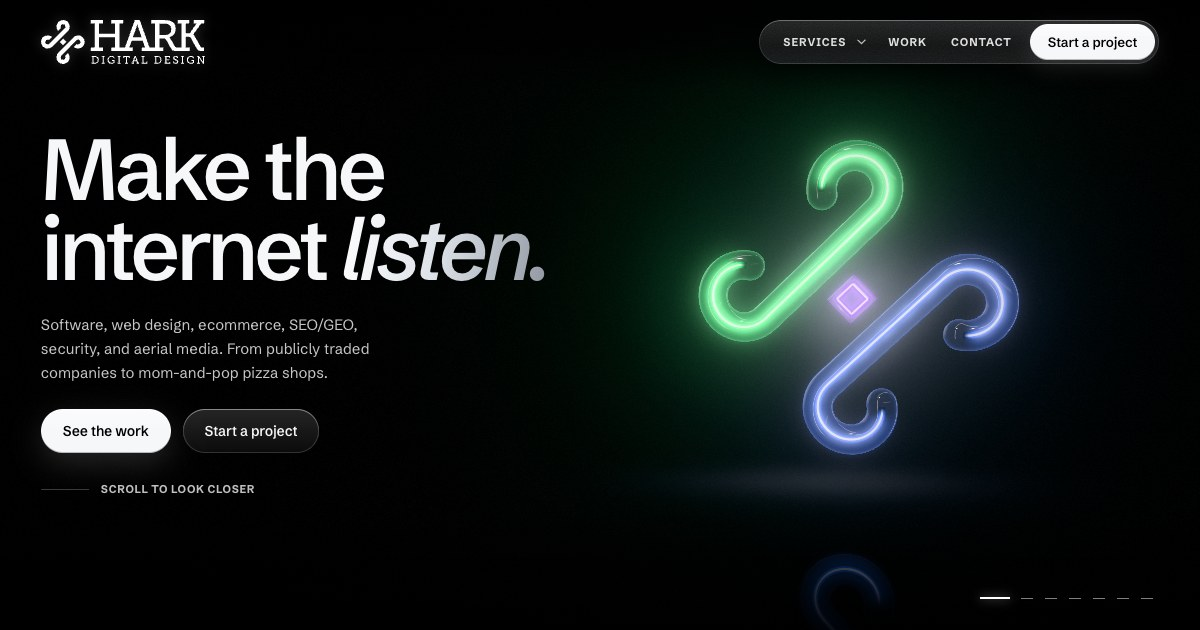
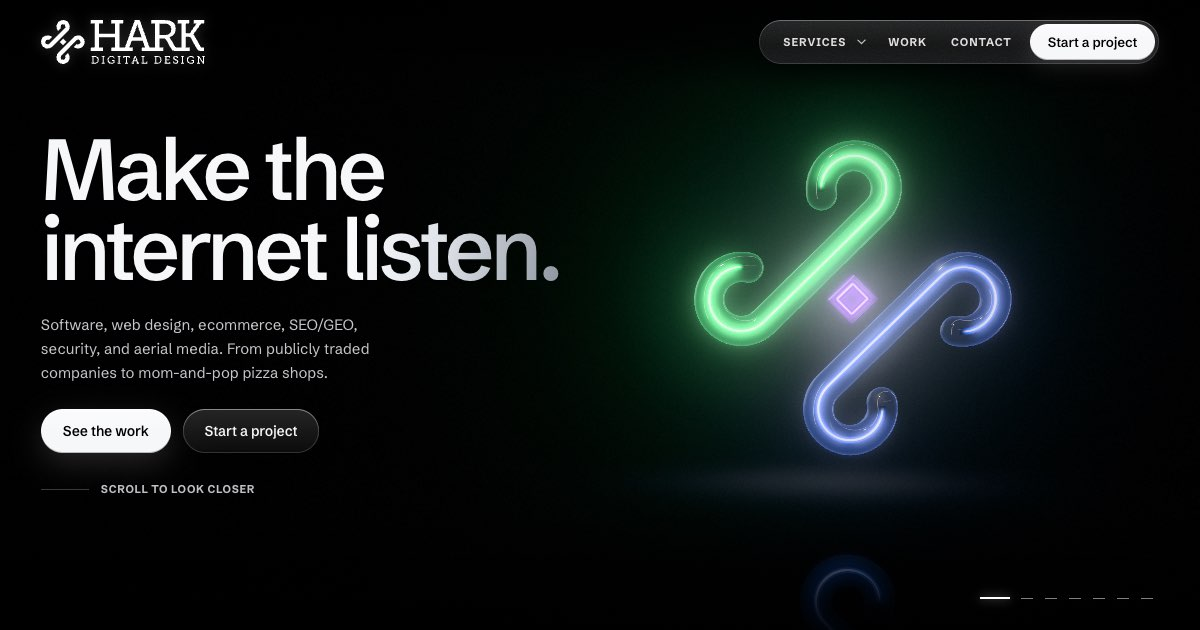
No italics anywhere; 'They talk. We Listen.' centred; tighter scroll; three.js cached
- Upright type only: the italic Schibsted face is no longer loaded (story,
  service pages, portfolio); every italic rule is normal, and base.css sets
  em/i/cite/dfn/var/address upright with font-synthesis-style: none. Accent
  words keep their gradient. Share image re-shot (it showed an italic 'listen.').
- Voices: 'They talk. We Listen.', larger and centred on the glass pane, sized
  from the card's own width (no container queries, so Safari 15 sets it the
  same); short landscape centres it between the meta row and the neon band.
- Scroll: Lenis lerp 0.2 / wheel 1 (was 0.09 / 0.85, which felt floaty);
  ?lerp= and ?wheel= audition other feels without a rebuild.
- Adaptive resolution never steps up mid-scroll (a step reallocates every
  render target, a hitch).
- three.js in its own chunk: the story's own JS is ~29 KB gzipped, and a
  deploy no longer makes returning visitors re-download three (~160 KB).

diff --git a/src/chapters/voices/voices.css b/src/chapters/voices/voices.css
@@ -30,6 +30,8 @@
   display: grid;
   grid-template-rows: auto minmax(0, 1fr) var(--vx-band, 30%);
   row-gap: clamp(12px, 2vh, 22px);
+  /* the card's text width: the intro title is sized off it (works without container queries) */
+  --vx-tw: calc(var(--vx-w) - var(--pad-l) - var(--pad-x));
 }
 
 /* ---------------- meta: eyebrow · count + ticks ---------------- */
@@ -113,16 +115,21 @@
 }
 
 .stage-voices .vx-title {
+  /* the intro line, large and centred on the whole pane: one sentence a line */
   position: absolute;
-  left: 0;
-  right: 0;
-  bottom: 0;
+  inset: 0;
   margin: 0;
-  font-size: clamp(2.6rem, 6.2vw, 6.4rem);
-  line-height: 0.94;
+  display: flex;
+  flex-direction: column;
+  align-items: center;
+  justify-content: center;
+  text-align: center;
+  pointer-events: none;
+  font-size: clamp(3rem, calc(var(--vx-tw) * 0.22), 10rem);
+  line-height: 0.96;
 }
 .stage-voices .vx-title > span {
-  display: inline;
+  display: block;
 }
 
 .stage-voices .vx-voices {
@@ -214,7 +221,7 @@
     --pad-l: clamp(28px, 8vw, 64px);
   }
   .stage-voices .vx-title {
-    font-size: clamp(2.3rem, 11vw, 5rem);
+    font-size: clamp(2.6rem, calc(var(--vx-tw) * 0.21), 7rem);
   }
   .stage-voices .vx-credit {
     font-size: 11px;
@@ -247,7 +254,11 @@
     --vx-floor: 12px;
     --vx-w: min(68vw, 720px);
   }
+  /* too short to centre on the whole pane: centre between the meta row and
+     the band, so the neon line never runs through the words */
   .stage-voices .vx-title {
-    font-size: clamp(1.9rem, 5.4vw, 2.8rem);
+    top: calc(var(--pad-t) + 32px);
+    bottom: var(--vx-band, 30%);
+    font-size: min(calc(var(--vx-tw) * 0.2), 14vh);
   }
 }

diff --git a/src/chapters/voices/index.ts b/src/chapters/voices/index.ts
@@ -20,8 +20,8 @@ import './voices.css'
  * speaker small beneath it; scrolling to the next voice morphs the tube into
  * the next speaker's print and shifts its colour (cyan → violet → magenta …).
  *
- *   0.00–0.12  intro: the line lies flat and dark: “We listen.” (0.012). It
- *              catches (0.036–0.056) and starts to talk: “They talk.” (0.044);
+ *   0.00–0.12  intro: the line lies flat and dark: “They talk.” (0.012). It
+ *              catches (0.036–0.056) and lights up: “We Listen.” (0.044);
  *              settled 0.06 (heading) and 0.08 (landing), clear of the cut
  *   0.12–0.93  eight voices (0.101 each): hold (the quote, the live line; a
  *              soft playhead reads along the voice as you scroll) → around
@@ -134,9 +134,10 @@ export default function create(): Chapter {
     ticks = TESTIMONIALS.map(() => el('i', '', undefined, tickRow))
 
     body = el('div', 'vx-body', undefined, card)
-    // “We listen.” first; “They talk.” once the line catches
+    // “They talk.” first; “We Listen.” (the lit accent) once the line catches.
+    // (on the card, not the body: it's centred on the whole pane)
     const m = SECTIONS.voices.title.match(/^(.*?\.)\s+(.*)$/)
-    title = el('h2', 'hud-h2 vx-title', undefined, body)
+    title = el('h2', 'hud-h2 vx-title', undefined, card)
     titleA = rise(el('span', 'vx-t1', undefined, title), m ? m[1] : SECTIONS.voices.title)
     title.appendChild(document.createTextNode(' '))
     titleB = rise(el('span', 'vx-t2', undefined, title), m ? `<em>${m[2]}</em>` : '')

diff --git a/src/styles/base.css b/src/styles/base.css
@@ -4,8 +4,9 @@
    Black, and frosted glass. Backgrounds are black (#000); light only exists
    where it makes frost glow. The page is frosted glass on black — panels
    with a soft sandblasted fill, a razor-thin bright top edge and a
-   light-catching rim; white type in Schibsted Grotesk, italic accents, and
-   bold tracked-caps labels in the same grotesk. Monochrome on purpose: the Hark brand is the
+   light-catching rim; white type in Schibsted Grotesk (upright only, never
+   italic: accent words are lit by a gradient instead), and bold
+   tracked-caps labels in the same grotesk. Monochrome on purpose: the Hark brand is the
    monochrome mark (no green). Headlines come INTO FOCUS (blur → sharp).
 
    STRUCTURE (keep): #gl / #track / #stages / .stage / #chrome / #loader,
@@ -15,6 +16,20 @@
    fallbacks — use rgba tokens); write -webkit-backdrop-filter BEFORE
    backdrop-filter; small text ≥ 4.5:1 on the real rendered background.
    ------------------------------------------------------------------ */
+
+/* no italics anywhere (Mike, 2026-09-30): not even the browser's own default
+   for em/i/cite, and no faux-italic if something asks for one */
+em,
+i,
+cite,
+dfn,
+var,
+address {
+  font-style: normal;
+}
+html {
+  font-synthesis-style: none;
+}
 
 :root {
   --bg: #000000;
@@ -291,7 +306,7 @@ a {
 /* <em> = the accent words, lit like light through tinted glass */
 .hud-title em,
 .hud-h2 em {
-  font-style: italic;
+  font-style: normal;
   color: var(--signal);
   background: var(--accent-grad);
   -webkit-background-clip: text;

diff --git a/src/core/Engine.ts b/src/core/Engine.ts
@@ -174,10 +174,17 @@ export class Engine {
       reducedMotion: this.reducedMotion,
     }
 
+    // ?lerp= / ?wheel= audition the scroll feel without a rebuild (see main.ts)
+    const q = new URLSearchParams(location.search)
+    const num = (k: string, lo: number, hi: number) => {
+      const v = parseFloat(q.get(k) ?? '')
+      return Number.isFinite(v) ? clamp(v, lo, hi) : undefined
+    }
     this.lenis = new Lenis({
       autoRaf: false,
-      lerp: this.reducedMotion ? 1 : 0.09,
-      wheelMultiplier: 0.85,
+      // tight: the story follows the wheel/trackpad closely (0.09 / 0.85 felt floaty)
+      lerp: this.reducedMotion ? 1 : (num('lerp', 0.02, 1) ?? 0.2),
+      wheelMultiplier: num('wheel', 0.2, 3) ?? 1,
       touchMultiplier: 1.4,
       smoothWheel: !this.reducedMotion,
     })
@@ -616,7 +623,13 @@ export class Engine {
       this.upWatch = 0
       this.perfCooldown = 6
       this.resize()
-    } else if (this.fastFor > 8 && this.dprScale < Math.min(1, this.dprCeil) && this.perfCooldown <= 0) {
+    } else if (
+      this.fastFor > 8 &&
+      this.dprScale < Math.min(1, this.dprCeil) &&
+      this.perfCooldown <= 0 &&
+      // a step up is optional and reallocates every render target: never mid-scroll
+      Math.abs(this.frame.velocity) < 0.05
+    ) {
       this.upFrom = this.dprScale
       this.dprScale = Math.min(1, this.dprCeil, this.dprScale + 0.1)
       this.fastFor = 0

diff --git a/src/main.ts b/src/main.ts
@@ -1,6 +1,5 @@
-// Fonts: Schibsted Grotesk for everything (display, body, italics, and bold labels).
+// Fonts: Schibsted Grotesk for everything (display, body and bold labels). Upright only: no italics anywhere.
 import '@fontsource-variable/schibsted-grotesk'
-import '@fontsource-variable/schibsted-grotesk/wght-italic.css'
 import './styles/base.css'
 import './ui/ui.css'
 
@@ -23,6 +22,7 @@ import { mountDebug } from './core/debug'
  *   ?p=0.42             jump to global progress
  *   ?only=work          init only that chapter (fast dev loop)
  *   ?debug              fps / chapter / progress readout
+ *   ?lerp=0.09&wheel=0.85  audition the smooth-scroll feel (lower lerp = floatier; default 0.2 / 1)
  */
 const params = new URLSearchParams(location.search)
 

diff --git a/src/portfolio/items.ts b/src/portfolio/items.ts
@@ -21,7 +21,7 @@ import { hostOf, isPreview, neonKey } from '../kit/work'
  *         .pf-foot > .pf-pool  the lit tube it stands on, and its light on the wall
  *       .pf-plac               industry (+ Preview), name, blurb, tags, the pill + host
  *
- * `kind`: 'feat' (the name an h2) or 'more' (an h3). Names are always plain, never an italic word.
+ * `kind`: 'feat' (the name an h2) or 'more' (an h3). Names are always plain, never an accent word.
  *
  * The pill's name is its aria-label, "Visit site, ComTec Systems (opens in a new
  * tab)": it starts with the words on it (WCAG 2.5.3). Visually hidden spans for

diff --git a/src/chapters/work/index.ts b/src/chapters/work/index.ts
@@ -391,7 +391,7 @@ class Work implements Chapter {
     const meta = el('div', 'wk-meta', undefined, root)
     el('span', 'hud-label wk-ind', w.industry, meta)
     if (pre) el('span', 'wk-badge', 'Preview', meta)
-    const name = rise(el('h3', 'hud-h2 wk-name', undefined, root), esc(w.name)) // (plain: no italic last word)
+    const name = rise(el('h3', 'hud-h2 wk-name', undefined, root), esc(w.name)) // (plain: no accent last word)
     el('p', 'hud-body wk-blurb', w.blurb, root)
     const tags = el('ul', 'hud-tags wk-tags', undefined, root)
     for (const t of w.tags) el('li', 'hud-tag', t, tags)

diff --git a/src/ui/menuSheet.ts b/src/ui/menuSheet.ts
@@ -9,7 +9,7 @@ import { holdInert, releaseInert } from './inert'
  * frosted sheet, a real modal dialog (focus trap, Escape, the layers behind
  * it inert with a fallback, focus back to Menu on close): the sections as big
  * plain names (Services opens the eleven service pages beneath it; the
- * section you are in is lit, italic with a glass bead), 'Start a project'
+ * section you are in is lit, with a glass bead), 'Start a project'
  * (and the host's own extra button), the address, and the mark drawn as a
  * hairline behind it all.
  */

diff --git a/vite.config.ts b/vite.config.ts
@@ -165,6 +165,12 @@ export default defineConfig({
     chunkSizeWarningLimit: 1500,
     rollupOptions: {
       input: { main: 'index.html', service: 'service.html', portfolio: 'portfolio.html' },
+      // three.js (~180 KB gzipped, most of the story's JS) in a file of its own:
+      // it only changes when three is upgraded, so a deploy doesn't make every
+      // returning visitor download it again
+      output: {
+        codeSplitting: { groups: [{ name: 'three', test: /node_modules[\\/]three[\\/]/ }] },
+      },
     },
   },
 })

diff --git a/src/chapters/contact/index.ts b/src/chapters/contact/index.ts
@@ -155,7 +155,7 @@ export default function create(): Chapter {
 
     async init(ctx: ChapterContext) {
       hud = buildHud(ctx.stage)
-      // the sign-off, set like the hero's headline: gradient italic on the last word
+      // the sign-off, set like the hero's headline: gradient accent on the last word
       const words = BRAND.tagline.split(' ')
       const last = words.pop() ?? ''
       sign = rise(el('p', 'hud-h2 ct-sign', undefined, ctx.stage), `${words.join(' ')} <em>${last}</em>`)

diff --git a/src/ui/ui.css b/src/ui/ui.css
@@ -757,7 +757,7 @@ html.menu-open #stages {
   letter-spacing: -0.045em;
 }
 .ch-ml.is-now .ch-ml-name {
-  font-style: italic;
+  font-style: normal;
   background: var(--accent-grad);
   -webkit-background-clip: text;
   background-clip: text;
@@ -1133,7 +1133,7 @@ html.menu-open #stages {
   letter-spacing: -0.035em;
 }
 .rot-title em {
-  font-style: italic;
+  font-style: normal;
   background: var(--accent-grad);
   -webkit-background-clip: text;
   background-clip: text;

diff --git a/src/content.ts b/src/content.ts
@@ -394,7 +394,7 @@ export const STATS = [
 export const SECTIONS = {
   work: { eyebrow: 'Selected work', title: 'Built to be heard.' },
   services: { eyebrow: 'What we do', title: 'Eleven ways to be heard.' },
-  voices: { eyebrow: 'Client voices', title: 'We listen. They talk.' },
+  voices: { eyebrow: 'Client voices', title: 'They talk. We Listen.' },
 }
 
 /** How every engagement runs (Software Development process, servicePages.ts). */
